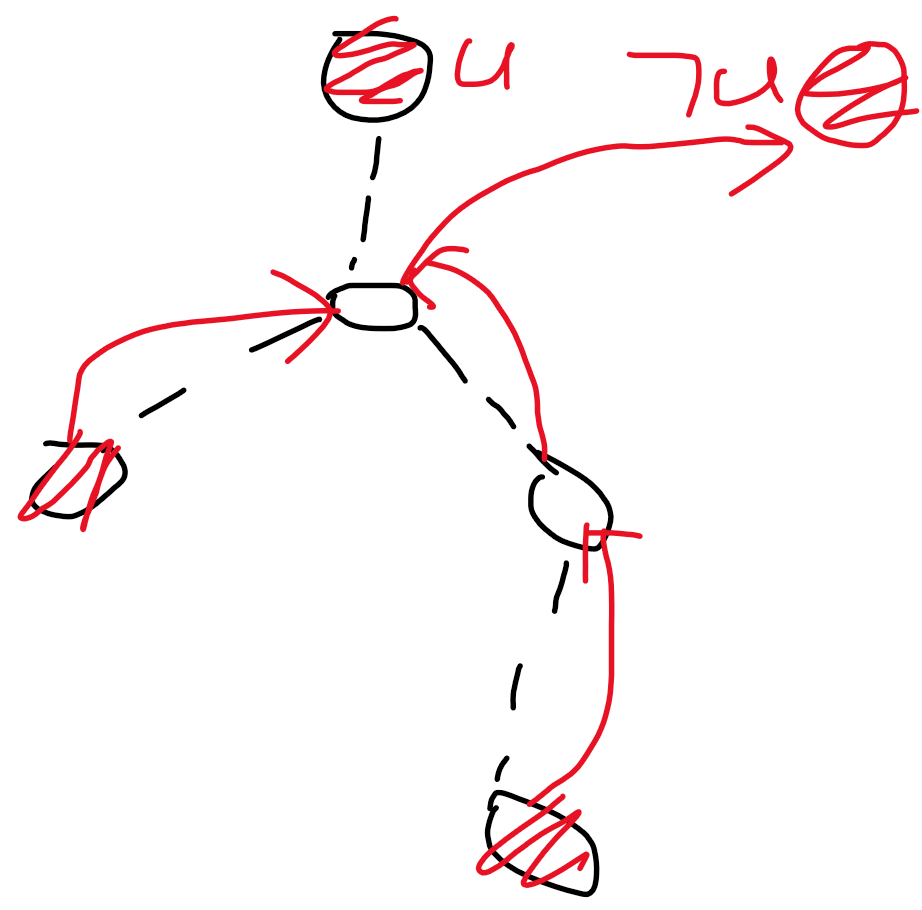
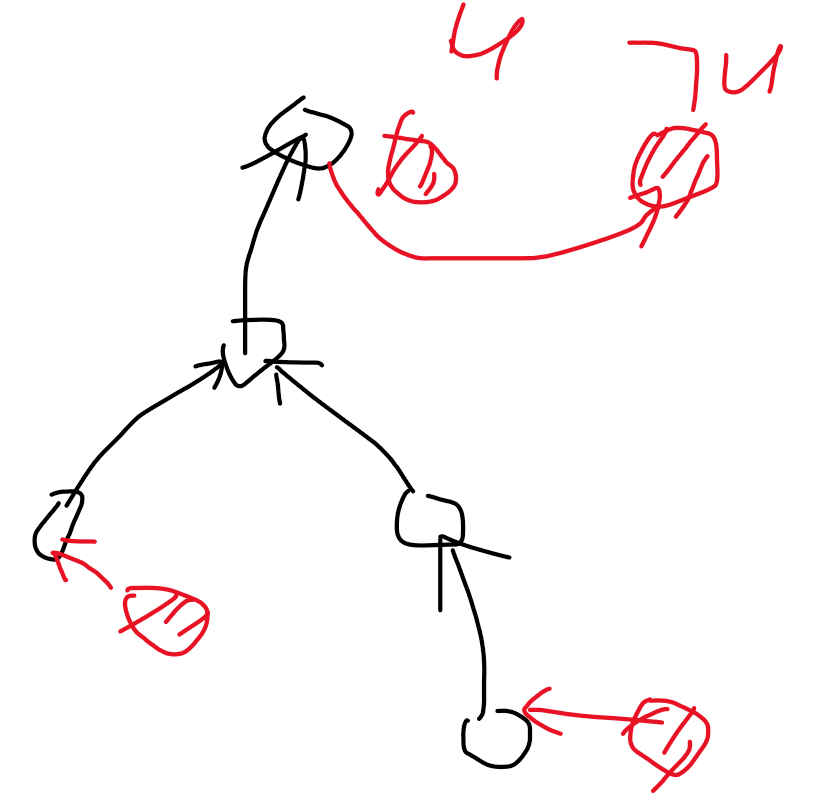
qaq

diff --git a/posts/posts/luogu-6965.html b/posts/posts/luogu-6965.html
@@ -674,6 +674,6 @@ header, .context-menu, .megamenu-content, footer{
 </style><title>luoguP6965 题解 - 【NEERC2016】Binary Code</title>
 </head>
 <body class='typora-export os-windows'><div class='typora-export-content'>
-<div id='write'  class=''><blockquote><p><strong><span>题目翻译.</span></strong></p><p><a href='https://www.luogu.com.cn/problem/P6965'><span>这里</span></a></p></blockquote><p><span>每个串只有两个可能的形态，于是建出这 </span><span class="MathJax_SVG" tabindex="-1" style="font-size: 100%; display: inline-block;"><svg xmlns:xlink="http://www.w3.org/1999/xlink" width="2.555ex" height="1.994ex" viewBox="0 -755.9 1100 858.4" role="img" focusable="false" style="vertical-align: -0.238ex;"><defs><path stroke-width="0" id="E3-MJMAIN-32" d="M109 429Q82 429 66 447T50 491Q50 562 103 614T235 666Q326 666 387 610T449 465Q449 422 429 383T381 315T301 241Q265 210 201 149L142 93L218 92Q375 92 385 97Q392 99 409 186V189H449V186Q448 183 436 95T421 3V0H50V19V31Q50 38 56 46T86 81Q115 113 136 137Q145 147 170 174T204 211T233 244T261 278T284 308T305 340T320 369T333 401T340 431T343 464Q343 527 309 573T212 619Q179 619 154 602T119 569T109 550Q109 549 114 549Q132 549 151 535T170 489Q170 464 154 447T109 429Z"></path><path stroke-width="0" id="E3-MJMATHI-6E" d="M21 287Q22 293 24 303T36 341T56 388T89 425T135 442Q171 442 195 424T225 390T231 369Q231 367 232 367L243 378Q304 442 382 442Q436 442 469 415T503 336T465 179T427 52Q427 26 444 26Q450 26 453 27Q482 32 505 65T540 145Q542 153 560 153Q580 153 580 145Q580 144 576 130Q568 101 554 73T508 17T439 -10Q392 -10 371 17T350 73Q350 92 386 193T423 345Q423 404 379 404H374Q288 404 229 303L222 291L189 157Q156 26 151 16Q138 -11 108 -11Q95 -11 87 -5T76 7T74 17Q74 30 112 180T152 343Q153 348 153 366Q153 405 129 405Q91 405 66 305Q60 285 60 284Q58 278 41 278H27Q21 284 21 287Z"></path></defs><g stroke="currentColor" fill="currentColor" stroke-width="0" transform="matrix(1 0 0 -1 0 0)"><use xlink:href="#E3-MJMAIN-32" x="0" y="0"></use><use xlink:href="#E3-MJMATHI-6E" x="500" y="0"></use></g></svg></span><script type="math/tex">2n</script><span> 个串的字典树，最终就是要所有点互无祖先关系。</span></p><p><span>自然可以爆建 2-SAT 但是边数并不理想（</span><span class="MathJax_SVG" tabindex="-1" style="font-size: 100%; display: inline-block;"><svg xmlns:xlink="http://www.w3.org/1999/xlink" width="2.447ex" height="2.344ex" viewBox="0 -906.7 1053.6 1009.2" role="img" focusable="false" style="vertical-align: -0.238ex;"><defs><path stroke-width="0" id="E10-MJMATHI-6E" d="M21 287Q22 293 24 303T36 341T56 388T89 425T135 442Q171 442 195 424T225 390T231 369Q231 367 232 367L243 378Q304 442 382 442Q436 442 469 415T503 336T465 179T427 52Q427 26 444 26Q450 26 453 27Q482 32 505 65T540 145Q542 153 560 153Q580 153 580 145Q580 144 576 130Q568 101 554 73T508 17T439 -10Q392 -10 371 17T350 73Q350 92 386 193T423 345Q423 404 379 404H374Q288 404 229 303L222 291L189 157Q156 26 151 16Q138 -11 108 -11Q95 -11 87 -5T76 7T74 17Q74 30 112 180T152 343Q153 348 153 366Q153 405 129 405Q91 405 66 305Q60 285 60 284Q58 278 41 278H27Q21 284 21 287Z"></path><path stroke-width="0" id="E10-MJMAIN-32" d="M109 429Q82 429 66 447T50 491Q50 562 103 614T235 666Q326 666 387 610T449 465Q449 422 429 383T381 315T301 241Q265 210 201 149L142 93L218 92Q375 92 385 97Q392 99 409 186V189H449V186Q448 183 436 95T421 3V0H50V19V31Q50 38 56 46T86 81Q115 113 136 137Q145 147 170 174T204 211T233 244T261 278T284 308T305 340T320 369T333 401T340 431T343 464Q343 527 309 573T212 619Q179 619 154 602T119 569T109 550Q109 549 114 549Q132 549 151 535T170 489Q170 464 154 447T109 429Z"></path></defs><g stroke="currentColor" fill="currentColor" stroke-width="0" transform="matrix(1 0 0 -1 0 0)"><use xlink:href="#E10-MJMATHI-6E" x="0" y="0"></use><use transform="scale(0.707)" xlink:href="#E10-MJMAIN-32" x="848" y="513"></use></g></svg></span><script type="math/tex">n^2</script><span>）。</span></p><center><div style="width:60%;margin:0"><img src="https://xyix.gitee.io/images/luogu-6965-1.png" style="width: 70%" alt=""></div></center><p><span>我们当然会想，能不能依托这棵 Trie 来帮助建图？大概就是这样的：</span></p><center><div style="width:60%;margin:0"><img src="https://xyix.gitee.io/images/luogu-6965-2.png" style="width: 70%" alt=""></div></center><p><span>注意上图并不准确，实际上的 </span><span class="MathJax_SVG" tabindex="-1" style="font-size: 100%; display: inline-block;"><svg xmlns:xlink="http://www.w3.org/1999/xlink" width="1.329ex" height="1.41ex" viewBox="0 -504.6 572 607.1" role="img" focusable="false" style="vertical-align: -0.238ex;"><defs><path stroke-width="0" id="E4-MJMATHI-75" d="M21 287Q21 295 30 318T55 370T99 420T158 442Q204 442 227 417T250 358Q250 340 216 246T182 105Q182 62 196 45T238 27T291 44T328 78L339 95Q341 99 377 247Q407 367 413 387T427 416Q444 431 463 431Q480 431 488 421T496 402L420 84Q419 79 419 68Q419 43 426 35T447 26Q469 29 482 57T512 145Q514 153 532 153Q551 153 551 144Q550 139 549 130T540 98T523 55T498 17T462 -8Q454 -10 438 -10Q372 -10 347 46Q345 45 336 36T318 21T296 6T267 -6T233 -11Q189 -11 155 7Q103 38 103 113Q103 170 138 262T173 379Q173 380 173 381Q173 390 173 393T169 400T158 404H154Q131 404 112 385T82 344T65 302T57 280Q55 278 41 278H27Q21 284 21 287Z"></path></defs><g stroke="currentColor" fill="currentColor" stroke-width="0" transform="matrix(1 0 0 -1 0 0)"><use xlink:href="#E4-MJMATHI-75" x="0" y="0"></use></g></svg></span><script type="math/tex">u</script><span> 不在 Trie 上而是独立的，只不过有个 Trie 上的点和它对应罢了。</span></p><p><span>于是我们建一个 &quot;上传 Trie&quot; 和一个 &quot;下传 Trie&quot; 即可。是不是和</span><a href='https://www.luogu.com.cn/problem/CF786B'><span>线段树优化建图</span></a><span>一模一样？</span></p><hr /><p><span>最后一点：没有 </span><code>?</code><span> 的情况。只需要强制选 </span><span class="MathJax_SVG" tabindex="-1" style="font-size: 100%; display: inline-block;"><svg xmlns:xlink="http://www.w3.org/1999/xlink" width="1.329ex" height="1.41ex" viewBox="0 -504.6 572 607.1" role="img" focusable="false" style="vertical-align: -0.238ex;"><defs><path stroke-width="0" id="E4-MJMATHI-75" d="M21 287Q21 295 30 318T55 370T99 420T158 442Q204 442 227 417T250 358Q250 340 216 246T182 105Q182 62 196 45T238 27T291 44T328 78L339 95Q341 99 377 247Q407 367 413 387T427 416Q444 431 463 431Q480 431 488 421T496 402L420 84Q419 79 419 68Q419 43 426 35T447 26Q469 29 482 57T512 145Q514 153 532 153Q551 153 551 144Q550 139 549 130T540 98T523 55T498 17T462 -8Q454 -10 438 -10Q372 -10 347 46Q345 45 336 36T318 21T296 6T267 -6T233 -11Q189 -11 155 7Q103 38 103 113Q103 170 138 262T173 379Q173 380 173 381Q173 390 173 393T169 400T158 404H154Q131 404 112 385T82 344T65 302T57 280Q55 278 41 278H27Q21 284 21 287Z"></path></defs><g stroke="currentColor" fill="currentColor" stroke-width="0" transform="matrix(1 0 0 -1 0 0)"><use xlink:href="#E4-MJMATHI-75" x="0" y="0"></use></g></svg></span><script type="math/tex">u</script><span>（</span><span class="MathJax_SVG" tabindex="-1" style="font-size: 100%; display: inline-block;"><svg xmlns:xlink="http://www.w3.org/1999/xlink" width="7.819ex" height="1.644ex" viewBox="0 -605.1 3366.6 707.6" role="img" focusable="false" style="vertical-align: -0.238ex;"><defs><path stroke-width="0" id="E36-MJMAIN-AC" d="M56 323T56 336T70 356H596Q603 353 611 343V102Q598 89 591 89Q587 89 584 90T579 94T575 98T572 102L571 209V316H70Q56 323 56 336Z"></path><path stroke-width="0" id="E36-MJMATHI-75" d="M21 287Q21 295 30 318T55 370T99 420T158 442Q204 442 227 417T250 358Q250 340 216 246T182 105Q182 62 196 45T238 27T291 44T328 78L339 95Q341 99 377 247Q407 367 413 387T427 416Q444 431 463 431Q480 431 488 421T496 402L420 84Q419 79 419 68Q419 43 426 35T447 26Q469 29 482 57T512 145Q514 153 532 153Q551 153 551 144Q550 139 549 130T540 98T523 55T498 17T462 -8Q454 -10 438 -10Q372 -10 347 46Q345 45 336 36T318 21T296 6T267 -6T233 -11Q189 -11 155 7Q103 38 103 113Q103 170 138 262T173 379Q173 380 173 381Q173 390 173 393T169 400T158 404H154Q131 404 112 385T82 344T65 302T57 280Q55 278 41 278H27Q21 284 21 287Z"></path><path stroke-width="0" id="E36-MJMAIN-2192" d="M56 237T56 250T70 270H835Q719 357 692 493Q692 494 692 496T691 499Q691 511 708 511H711Q720 511 723 510T729 506T732 497T735 481T743 456Q765 389 816 336T935 261Q944 258 944 250Q944 244 939 241T915 231T877 212Q836 186 806 152T761 85T740 35T732 4Q730 -6 727 -8T711 -11Q691 -11 691 0Q691 7 696 25Q728 151 835 230H70Q56 237 56 250Z"></path></defs><g stroke="currentColor" fill="currentColor" stroke-width="0" transform="matrix(1 0 0 -1 0 0)"><use xlink:href="#E36-MJMAIN-AC" x="0" y="0"></use><use xlink:href="#E36-MJMATHI-75" x="667" y="0"></use><use xlink:href="#E36-MJMAIN-2192" x="1516" y="0"></use><use xlink:href="#E36-MJMATHI-75" x="2794" y="0"></use></g></svg></span><script type="math/tex">\lnot u\rightarrow u</script><span>）即可。</span></p><pre lang="cpp" spellcheck="false" class="md-fences md-end-block ty-contain-cm modeLoaded md-focus"><div class="CodeMirror cm-s-inner CodeMirror-wrap CodeMirror-focused" lang="cpp"><div style="overflow: hidden; position: relative; width: 3px; height: 0px; top: 9.5px; left: 20.3984px;"><textarea autocorrect="off" autocapitalize="off" spellcheck="false" tabindex="0" style="position: absolute; bottom: -1em; padding: 0px; width: 1000px; height: 1em; outline: none;"></textarea></div><div class="CodeMirror-scrollbar-filler" cm-not-content="true"></div><div class="CodeMirror-gutter-filler" cm-not-content="true"></div><div class="CodeMirror-scroll" tabindex="-1"><div class="CodeMirror-sizer" style="margin-left: 0px; margin-bottom: 0px; border-right-width: 0px; padding-right: 0px; padding-bottom: 0px;"><div style="position: relative; top: 0px;"><div class="CodeMirror-lines" role="presentation"><div role="presentation" style="position: relative; outline: none;"><div class="CodeMirror-measure"><span><span></span>x</span></div><div class="CodeMirror-measure"></div><div style="position: relative; z-index: 1;"></div><div class="CodeMirror-code" role="presentation"><div class="CodeMirror-activeline" style="position: relative;"><div class="CodeMirror-activeline-background CodeMirror-linebackground"></div><div class="CodeMirror-gutter-background CodeMirror-activeline-gutter" style="left: 0px; width: 0px;"></div><pre class=" CodeMirror-line " role="presentation"><span role="presentation" style="padding-right: 0.1px;"><span class="cm-variable">🕊</span></span></pre></div></div></div></div></div></div><div style="position: absolute; height: 0px; width: 1px; border-bottom: 0px solid transparent; top: 23px;"></div><div class="CodeMirror-gutters" style="display: none; height: 23px;"></div></div></div></pre><p>&nbsp;</p></div></div>
+<div id='write'  class=''><blockquote><p><strong><span>题目翻译.</span></strong></p><p><a href='https://www.luogu.com.cn/problem/P6965'><span>这里</span></a></p></blockquote><p><span>每个串只有两个可能的形态，于是建出这 </span><span class="MathJax_SVG" tabindex="-1" style="font-size: 100%; display: inline-block;"><svg xmlns:xlink="http://www.w3.org/1999/xlink" width="2.555ex" height="1.994ex" viewBox="0 -755.9 1100 858.4" role="img" focusable="false" style="vertical-align: -0.238ex;"><defs><path stroke-width="0" id="E6-MJMAIN-32" d="M109 429Q82 429 66 447T50 491Q50 562 103 614T235 666Q326 666 387 610T449 465Q449 422 429 383T381 315T301 241Q265 210 201 149L142 93L218 92Q375 92 385 97Q392 99 409 186V189H449V186Q448 183 436 95T421 3V0H50V19V31Q50 38 56 46T86 81Q115 113 136 137Q145 147 170 174T204 211T233 244T261 278T284 308T305 340T320 369T333 401T340 431T343 464Q343 527 309 573T212 619Q179 619 154 602T119 569T109 550Q109 549 114 549Q132 549 151 535T170 489Q170 464 154 447T109 429Z"></path><path stroke-width="0" id="E6-MJMATHI-6E" d="M21 287Q22 293 24 303T36 341T56 388T89 425T135 442Q171 442 195 424T225 390T231 369Q231 367 232 367L243 378Q304 442 382 442Q436 442 469 415T503 336T465 179T427 52Q427 26 444 26Q450 26 453 27Q482 32 505 65T540 145Q542 153 560 153Q580 153 580 145Q580 144 576 130Q568 101 554 73T508 17T439 -10Q392 -10 371 17T350 73Q350 92 386 193T423 345Q423 404 379 404H374Q288 404 229 303L222 291L189 157Q156 26 151 16Q138 -11 108 -11Q95 -11 87 -5T76 7T74 17Q74 30 112 180T152 343Q153 348 153 366Q153 405 129 405Q91 405 66 305Q60 285 60 284Q58 278 41 278H27Q21 284 21 287Z"></path></defs><g stroke="currentColor" fill="currentColor" stroke-width="0" transform="matrix(1 0 0 -1 0 0)"><use xlink:href="#E6-MJMAIN-32" x="0" y="0"></use><use xlink:href="#E6-MJMATHI-6E" x="500" y="0"></use></g></svg></span><script type="math/tex">2n</script><span> 个串的字典树，最终就是要所有点互无祖先关系。</span></p><p><span>自然可以爆建 2-SAT 但是边数并不理想（</span><span class="MathJax_SVG" tabindex="-1" style="font-size: 100%; display: inline-block;"><svg xmlns:xlink="http://www.w3.org/1999/xlink" width="2.447ex" height="2.344ex" viewBox="0 -906.7 1053.6 1009.2" role="img" focusable="false" style="vertical-align: -0.238ex;"><defs><path stroke-width="0" id="E7-MJMATHI-6E" d="M21 287Q22 293 24 303T36 341T56 388T89 425T135 442Q171 442 195 424T225 390T231 369Q231 367 232 367L243 378Q304 442 382 442Q436 442 469 415T503 336T465 179T427 52Q427 26 444 26Q450 26 453 27Q482 32 505 65T540 145Q542 153 560 153Q580 153 580 145Q580 144 576 130Q568 101 554 73T508 17T439 -10Q392 -10 371 17T350 73Q350 92 386 193T423 345Q423 404 379 404H374Q288 404 229 303L222 291L189 157Q156 26 151 16Q138 -11 108 -11Q95 -11 87 -5T76 7T74 17Q74 30 112 180T152 343Q153 348 153 366Q153 405 129 405Q91 405 66 305Q60 285 60 284Q58 278 41 278H27Q21 284 21 287Z"></path><path stroke-width="0" id="E7-MJMAIN-32" d="M109 429Q82 429 66 447T50 491Q50 562 103 614T235 666Q326 666 387 610T449 465Q449 422 429 383T381 315T301 241Q265 210 201 149L142 93L218 92Q375 92 385 97Q392 99 409 186V189H449V186Q448 183 436 95T421 3V0H50V19V31Q50 38 56 46T86 81Q115 113 136 137Q145 147 170 174T204 211T233 244T261 278T284 308T305 340T320 369T333 401T340 431T343 464Q343 527 309 573T212 619Q179 619 154 602T119 569T109 550Q109 549 114 549Q132 549 151 535T170 489Q170 464 154 447T109 429Z"></path></defs><g stroke="currentColor" fill="currentColor" stroke-width="0" transform="matrix(1 0 0 -1 0 0)"><use xlink:href="#E7-MJMATHI-6E" x="0" y="0"></use><use transform="scale(0.707)" xlink:href="#E7-MJMAIN-32" x="848" y="513"></use></g></svg></span><script type="math/tex">n^2</script><span>）。</span></p><center><div style="width:60%;margin:0"><img src="https://xyix.gitee.io/images/luogu-6965-1.png" style="width: 70%" alt=""></div></center><p><span>我们当然会想，能不能依托这棵 Trie 来帮助建图？大概就是这样的：</span></p><center><div style="width:60%;margin:0"><img src="https://xyix.gitee.io/images/luogu-6965-2.png" style="width: 70%" alt=""></div></center><p><span>实际上，Trie 点的被选的含义是&quot;当前点不能放串&quot;，这么一看就更合理了！</span><span class="MathJax_SVG" tabindex="-1" style="font-size: 100%; display: inline-block;"><svg xmlns:xlink="http://www.w3.org/1999/xlink" width="1.329ex" height="1.41ex" viewBox="0 -504.6 572 607.1" role="img" focusable="false" style="vertical-align: -0.238ex;"><defs><path stroke-width="0" id="E9-MJMATHI-75" d="M21 287Q21 295 30 318T55 370T99 420T158 442Q204 442 227 417T250 358Q250 340 216 246T182 105Q182 62 196 45T238 27T291 44T328 78L339 95Q341 99 377 247Q407 367 413 387T427 416Q444 431 463 431Q480 431 488 421T496 402L420 84Q419 79 419 68Q419 43 426 35T447 26Q469 29 482 57T512 145Q514 153 532 153Q551 153 551 144Q550 139 549 130T540 98T523 55T498 17T462 -8Q454 -10 438 -10Q372 -10 347 46Q345 45 336 36T318 21T296 6T267 -6T233 -11Q189 -11 155 7Q103 38 103 113Q103 170 138 262T173 379Q173 380 173 381Q173 390 173 393T169 400T158 404H154Q131 404 112 385T82 344T65 302T57 280Q55 278 41 278H27Q21 284 21 287Z"></path></defs><g stroke="currentColor" fill="currentColor" stroke-width="0" transform="matrix(1 0 0 -1 0 0)"><use xlink:href="#E9-MJMATHI-75" x="0" y="0"></use></g></svg></span><script type="math/tex">u</script><span> 放了串 </span><span class="MathJax_SVG" tabindex="-1" style="font-size: 100%; display: inline-block;"><svg xmlns:xlink="http://www.w3.org/1999/xlink" width="2.323ex" height="1.644ex" viewBox="0 -605.1 1000 707.6" role="img" focusable="false" style="vertical-align: -0.238ex;"><defs><path stroke-width="0" id="E21-MJMAIN-2192" d="M56 237T56 250T70 270H835Q719 357 692 493Q692 494 692 496T691 499Q691 511 708 511H711Q720 511 723 510T729 506T732 497T735 481T743 456Q765 389 816 336T935 261Q944 258 944 250Q944 244 939 241T915 231T877 212Q836 186 806 152T761 85T740 35T732 4Q730 -6 727 -8T711 -11Q691 -11 691 0Q691 7 696 25Q728 151 835 230H70Q56 237 56 250Z"></path></defs><g stroke="currentColor" fill="currentColor" stroke-width="0" transform="matrix(1 0 0 -1 0 0)"><use xlink:href="#E21-MJMAIN-2192" x="0" y="0"></use></g></svg></span><script type="math/tex">\rightarrow</script><span> </span><span class="MathJax_SVG" tabindex="-1" style="font-size: 100%; display: inline-block;"><svg xmlns:xlink="http://www.w3.org/1999/xlink" width="1.329ex" height="1.41ex" viewBox="0 -504.6 572 607.1" role="img" focusable="false" style="vertical-align: -0.238ex;"><defs><path stroke-width="0" id="E9-MJMATHI-75" d="M21 287Q21 295 30 318T55 370T99 420T158 442Q204 442 227 417T250 358Q250 340 216 246T182 105Q182 62 196 45T238 27T291 44T328 78L339 95Q341 99 377 247Q407 367 413 387T427 416Q444 431 463 431Q480 431 488 421T496 402L420 84Q419 79 419 68Q419 43 426 35T447 26Q469 29 482 57T512 145Q514 153 532 153Q551 153 551 144Q550 139 549 130T540 98T523 55T498 17T462 -8Q454 -10 438 -10Q372 -10 347 46Q345 45 336 36T318 21T296 6T267 -6T233 -11Q189 -11 155 7Q103 38 103 113Q103 170 138 262T173 379Q173 380 173 381Q173 390 173 393T169 400T158 404H154Q131 404 112 385T82 344T65 302T57 280Q55 278 41 278H27Q21 284 21 287Z"></path></defs><g stroke="currentColor" fill="currentColor" stroke-width="0" transform="matrix(1 0 0 -1 0 0)"><use xlink:href="#E9-MJMATHI-75" x="0" y="0"></use></g></svg></span><script type="math/tex">u</script><span> 对应的 Trie 点不能再放 </span><span class="MathJax_SVG" tabindex="-1" style="font-size: 100%; display: inline-block;"><svg xmlns:xlink="http://www.w3.org/1999/xlink" width="2.323ex" height="1.644ex" viewBox="0 -605.1 1000 707.6" role="img" focusable="false" style="vertical-align: -0.238ex;"><defs><path stroke-width="0" id="E21-MJMAIN-2192" d="M56 237T56 250T70 270H835Q719 357 692 493Q692 494 692 496T691 499Q691 511 708 511H711Q720 511 723 510T729 506T732 497T735 481T743 456Q765 389 816 336T935 261Q944 258 944 250Q944 244 939 241T915 231T877 212Q836 186 806 152T761 85T740 35T732 4Q730 -6 727 -8T711 -11Q691 -11 691 0Q691 7 696 25Q728 151 835 230H70Q56 237 56 250Z"></path></defs><g stroke="currentColor" fill="currentColor" stroke-width="0" transform="matrix(1 0 0 -1 0 0)"><use xlink:href="#E21-MJMAIN-2192" x="0" y="0"></use></g></svg></span><script type="math/tex">\rightarrow</script><span> 其祖先也全不能再放。</span></p><hr /><p><span>最后一点：没有 </span><code>?</code><span> 的情况。这时我们会发现这是一个尴尬的 case：按之前的建图方式 </span><span class="MathJax_SVG" tabindex="-1" style="font-size: 100%; display: inline-block;"><svg xmlns:xlink="http://www.w3.org/1999/xlink" width="1.329ex" height="1.41ex" viewBox="0 -504.6 572 607.1" role="img" focusable="false" style="vertical-align: -0.238ex;"><defs><path stroke-width="0" id="E9-MJMATHI-75" d="M21 287Q21 295 30 318T55 370T99 420T158 442Q204 442 227 417T250 358Q250 340 216 246T182 105Q182 62 196 45T238 27T291 44T328 78L339 95Q341 99 377 247Q407 367 413 387T427 416Q444 431 463 431Q480 431 488 421T496 402L420 84Q419 79 419 68Q419 43 426 35T447 26Q469 29 482 57T512 145Q514 153 532 153Q551 153 551 144Q550 139 549 130T540 98T523 55T498 17T462 -8Q454 -10 438 -10Q372 -10 347 46Q345 45 336 36T318 21T296 6T267 -6T233 -11Q189 -11 155 7Q103 38 103 113Q103 170 138 262T173 379Q173 380 173 381Q173 390 173 393T169 400T158 404H154Q131 404 112 385T82 344T65 302T57 280Q55 278 41 278H27Q21 284 21 287Z"></path></defs><g stroke="currentColor" fill="currentColor" stroke-width="0" transform="matrix(1 0 0 -1 0 0)"><use xlink:href="#E9-MJMATHI-75" x="0" y="0"></use></g></svg></span><script type="math/tex">u</script><span> 和 </span><span class="MathJax_SVG" tabindex="-1" style="font-size: 100%; display: inline-block;"><svg xmlns:xlink="http://www.w3.org/1999/xlink" width="2.878ex" height="1.41ex" viewBox="0 -504.6 1239 607.1" role="img" focusable="false" style="vertical-align: -0.238ex;"><defs><path stroke-width="0" id="E42-MJMAIN-AC" d="M56 323T56 336T70 356H596Q603 353 611 343V102Q598 89 591 89Q587 89 584 90T579 94T575 98T572 102L571 209V316H70Q56 323 56 336Z"></path><path stroke-width="0" id="E42-MJMATHI-75" d="M21 287Q21 295 30 318T55 370T99 420T158 442Q204 442 227 417T250 358Q250 340 216 246T182 105Q182 62 196 45T238 27T291 44T328 78L339 95Q341 99 377 247Q407 367 413 387T427 416Q444 431 463 431Q480 431 488 421T496 402L420 84Q419 79 419 68Q419 43 426 35T447 26Q469 29 482 57T512 145Q514 153 532 153Q551 153 551 144Q550 139 549 130T540 98T523 55T498 17T462 -8Q454 -10 438 -10Q372 -10 347 46Q345 45 336 36T318 21T296 6T267 -6T233 -11Q189 -11 155 7Q103 38 103 113Q103 170 138 262T173 379Q173 380 173 381Q173 390 173 393T169 400T158 404H154Q131 404 112 385T82 344T65 302T57 280Q55 278 41 278H27Q21 284 21 287Z"></path></defs><g stroke="currentColor" fill="currentColor" stroke-width="0" transform="matrix(1 0 0 -1 0 0)"><use xlink:href="#E42-MJMAIN-AC" x="0" y="0"></use><use xlink:href="#E42-MJMATHI-75" x="667" y="0"></use></g></svg></span><script type="math/tex">\lnot u</script><span> 会立即互相推出。</span></p><p><span>然而你冷静一想这好像并不尴尬，判有无解的时候特判这组 </span><span class="MathJax_SVG" tabindex="-1" style="font-size: 100%; display: inline-block;"><svg xmlns:xlink="http://www.w3.org/1999/xlink" width="5.239ex" height="1.76ex" viewBox="0 -504.6 2255.7 757.9" role="img" focusable="false" style="vertical-align: -0.588ex;"><defs><path stroke-width="0" id="E53-MJMATHI-75" d="M21 287Q21 295 30 318T55 370T99 420T158 442Q204 442 227 417T250 358Q250 340 216 246T182 105Q182 62 196 45T238 27T291 44T328 78L339 95Q341 99 377 247Q407 367 413 387T427 416Q444 431 463 431Q480 431 488 421T496 402L420 84Q419 79 419 68Q419 43 426 35T447 26Q469 29 482 57T512 145Q514 153 532 153Q551 153 551 144Q550 139 549 130T540 98T523 55T498 17T462 -8Q454 -10 438 -10Q372 -10 347 46Q345 45 336 36T318 21T296 6T267 -6T233 -11Q189 -11 155 7Q103 38 103 113Q103 170 138 262T173 379Q173 380 173 381Q173 390 173 393T169 400T158 404H154Q131 404 112 385T82 344T65 302T57 280Q55 278 41 278H27Q21 284 21 287Z"></path><path stroke-width="0" id="E53-MJMAIN-2C" d="M78 35T78 60T94 103T137 121Q165 121 187 96T210 8Q210 -27 201 -60T180 -117T154 -158T130 -185T117 -194Q113 -194 104 -185T95 -172Q95 -168 106 -156T131 -126T157 -76T173 -3V9L172 8Q170 7 167 6T161 3T152 1T140 0Q113 0 96 17Z"></path><path stroke-width="0" id="E53-MJMAIN-AC" d="M56 323T56 336T70 356H596Q603 353 611 343V102Q598 89 591 89Q587 89 584 90T579 94T575 98T572 102L571 209V316H70Q56 323 56 336Z"></path></defs><g stroke="currentColor" fill="currentColor" stroke-width="0" transform="matrix(1 0 0 -1 0 0)"><use xlink:href="#E53-MJMATHI-75" x="0" y="0"></use><use xlink:href="#E53-MJMAIN-2C" x="572" y="0"></use><use xlink:href="#E53-MJMAIN-AC" x="1016" y="0"></use><use xlink:href="#E53-MJMATHI-75" x="1683" y="0"></use></g></svg></span><script type="math/tex">u,\lnot u</script><span> 即可。</span></p><pre class="md-fences md-end-block ty-contain-cm modeLoaded" spellcheck="false" lang="cpp"><div class="CodeMirror cm-s-inner CodeMirror-wrap" lang="cpp"><div style="overflow: hidden; position: relative; width: 3px; height: 0px; top: 9.5px; left: 8px;"><textarea autocorrect="off" autocapitalize="off" spellcheck="false" tabindex="0" style="position: absolute; bottom: -1em; padding: 0px; width: 1000px; height: 1em; outline: none;"></textarea></div><div class="CodeMirror-scrollbar-filler" cm-not-content="true"></div><div class="CodeMirror-gutter-filler" cm-not-content="true"></div><div class="CodeMirror-scroll" tabindex="-1"><div class="CodeMirror-sizer" style="margin-left: 0px; margin-bottom: 0px; border-right-width: 0px; padding-right: 0px; padding-bottom: 0px;"><div style="position: relative; top: 0px;"><div class="CodeMirror-lines" role="presentation"><div role="presentation" style="position: relative; outline: none;"><div class="CodeMirror-measure"></div><div class="CodeMirror-measure"></div><div style="position: relative; z-index: 1;"></div><div class="CodeMirror-code" role="presentation"><div class="CodeMirror-activeline" style="position: relative;"><div class="CodeMirror-activeline-background CodeMirror-linebackground"></div><div class="CodeMirror-gutter-background CodeMirror-activeline-gutter" style="left: 0px; width: 0px;"></div><pre class=" CodeMirror-line " role="presentation"><span role="presentation" style="padding-right: 0.1px;"><span class="cm-variable">🕊</span></span></pre></div></div></div></div></div></div><div style="position: absolute; height: 0px; width: 1px; border-bottom: 0px solid transparent; top: 23px;"></div><div class="CodeMirror-gutters" style="display: none; height: 23px;"></div></div></div></pre><p>&nbsp;</p></div></div>
 </body>
 </html>

diff --git a/posts/posts/luogu-6965.md b/posts/posts/luogu-6965.md
@@ -16,13 +16,13 @@ title: luoguP6965 题解 - 【NEERC2016】Binary Code
 
 <center><div style="width:60%;margin:0"><img src="https://xyix.gitee.io/images/luogu-6965-2.png" style="width: 70%" alt=""></div></center>
 
-注意上图并不准确，实际上的 $u$ 不在 Trie 上而是独立的，只不过有个 Trie 上的点和它对应罢了。
-
-于是我们建一个 "上传 Trie" 和一个 "下传 Trie" 即可。是不是和[线段树优化建图](https://www.luogu.com.cn/problem/CF786B)一模一样？
+实际上，Trie 点的被选的含义是"当前点不能放串"，这么一看就更合理了！$u$ 放了串 $\rightarrow$ $u$ 对应的 Trie 点不能再放 $\rightarrow$ 其祖先也全不能再放。
 
 ----
 
-最后一点：没有 ``?`` 的情况。只需要强制选 $u$（$\lnot u\rightarrow u$）即可。
+最后一点：没有 ``?`` 的情况。这时我们会发现这是一个尴尬的 case：按之前的建图方式 $u$ 和 $\lnot u$ 会立即互相推出。
+
+然而你冷静一想这好像并不尴尬，判有无解的时候特判这组 $u,\lnot u$ 即可。
 
 ```cpp
 🕊
